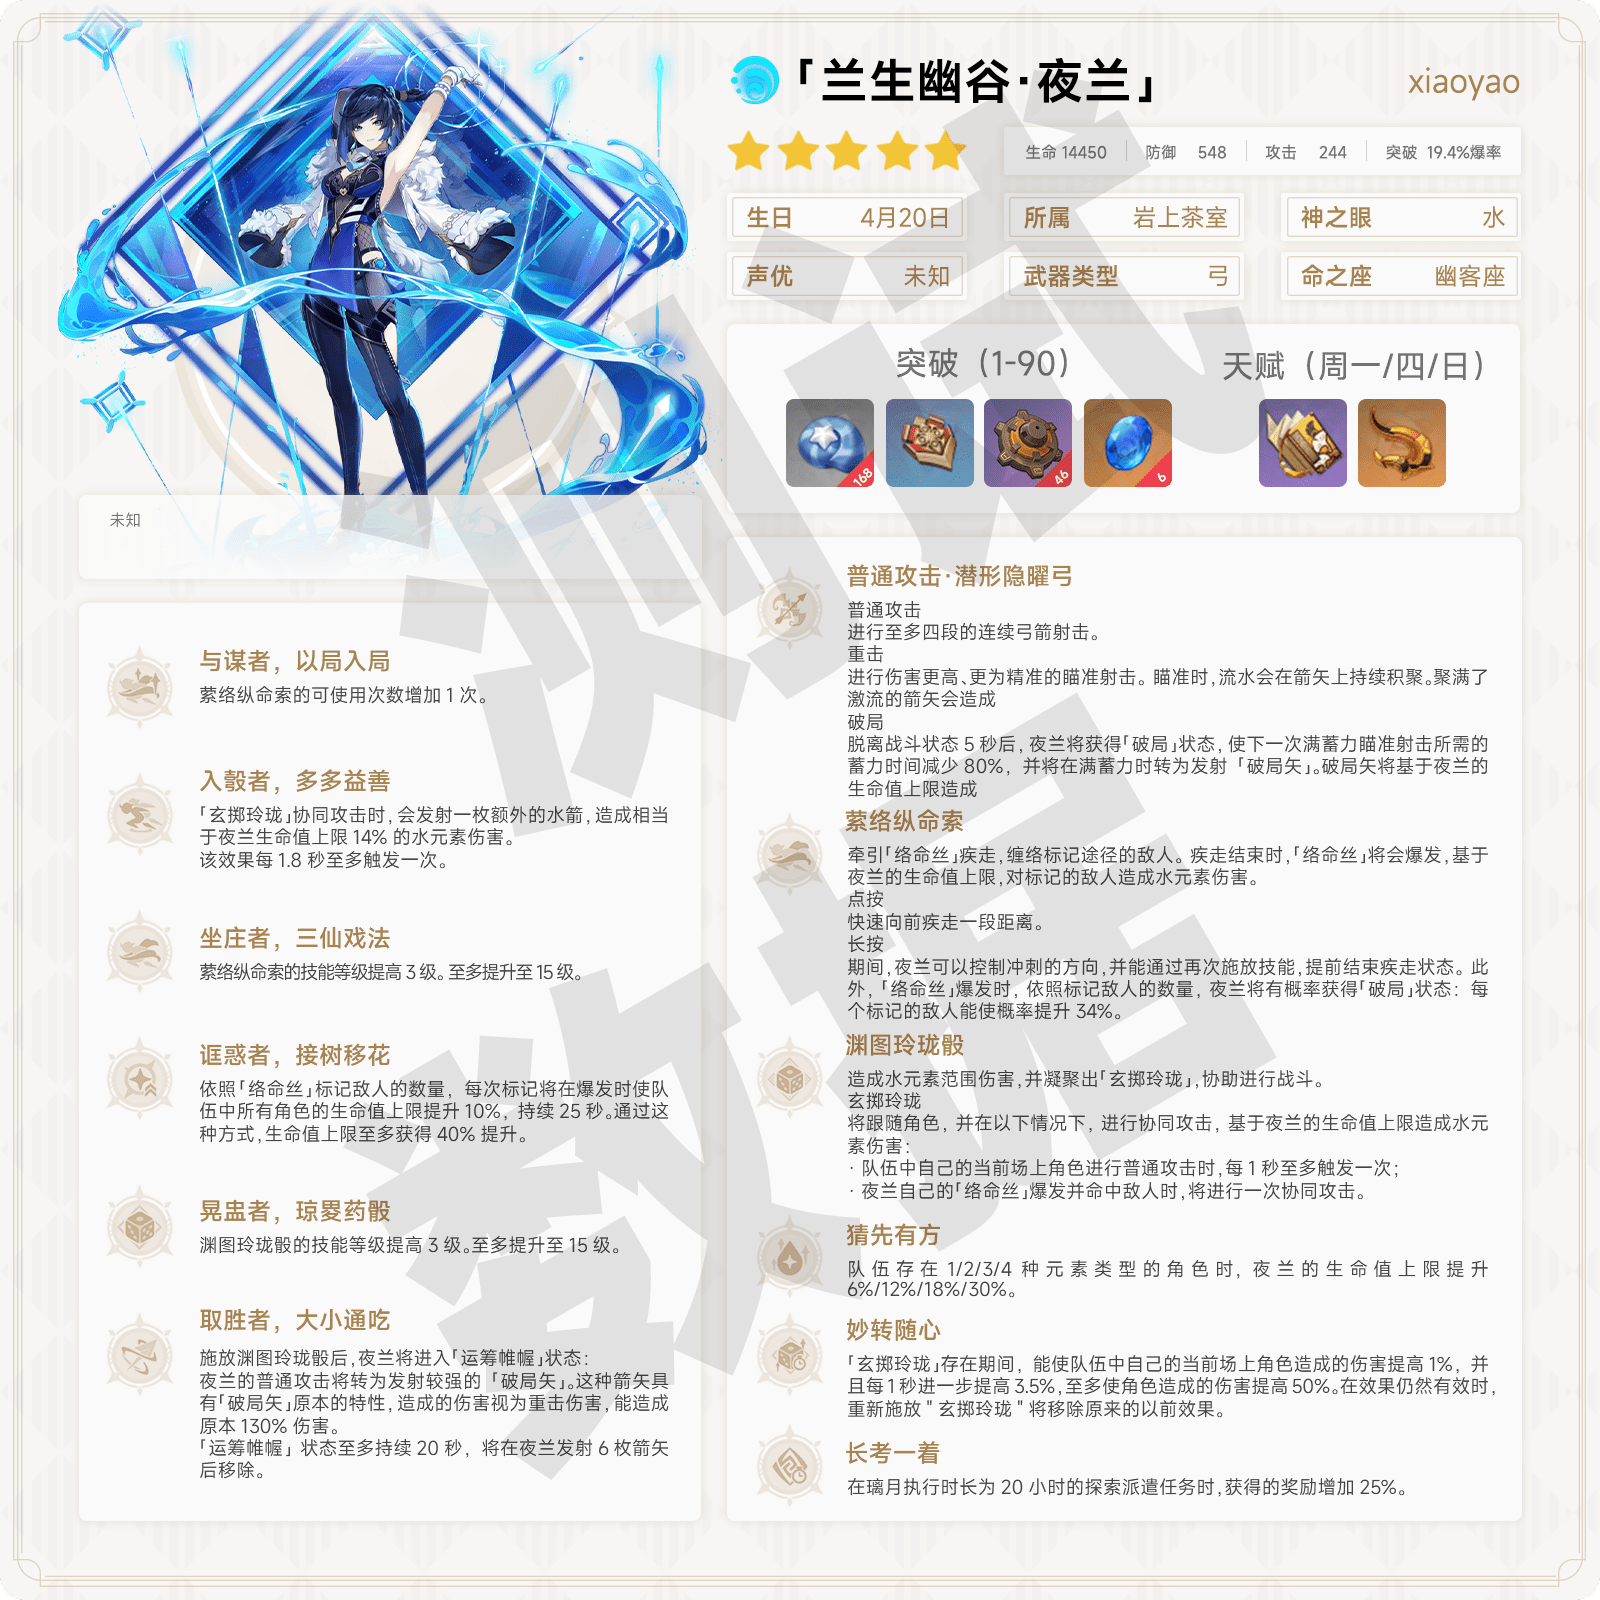
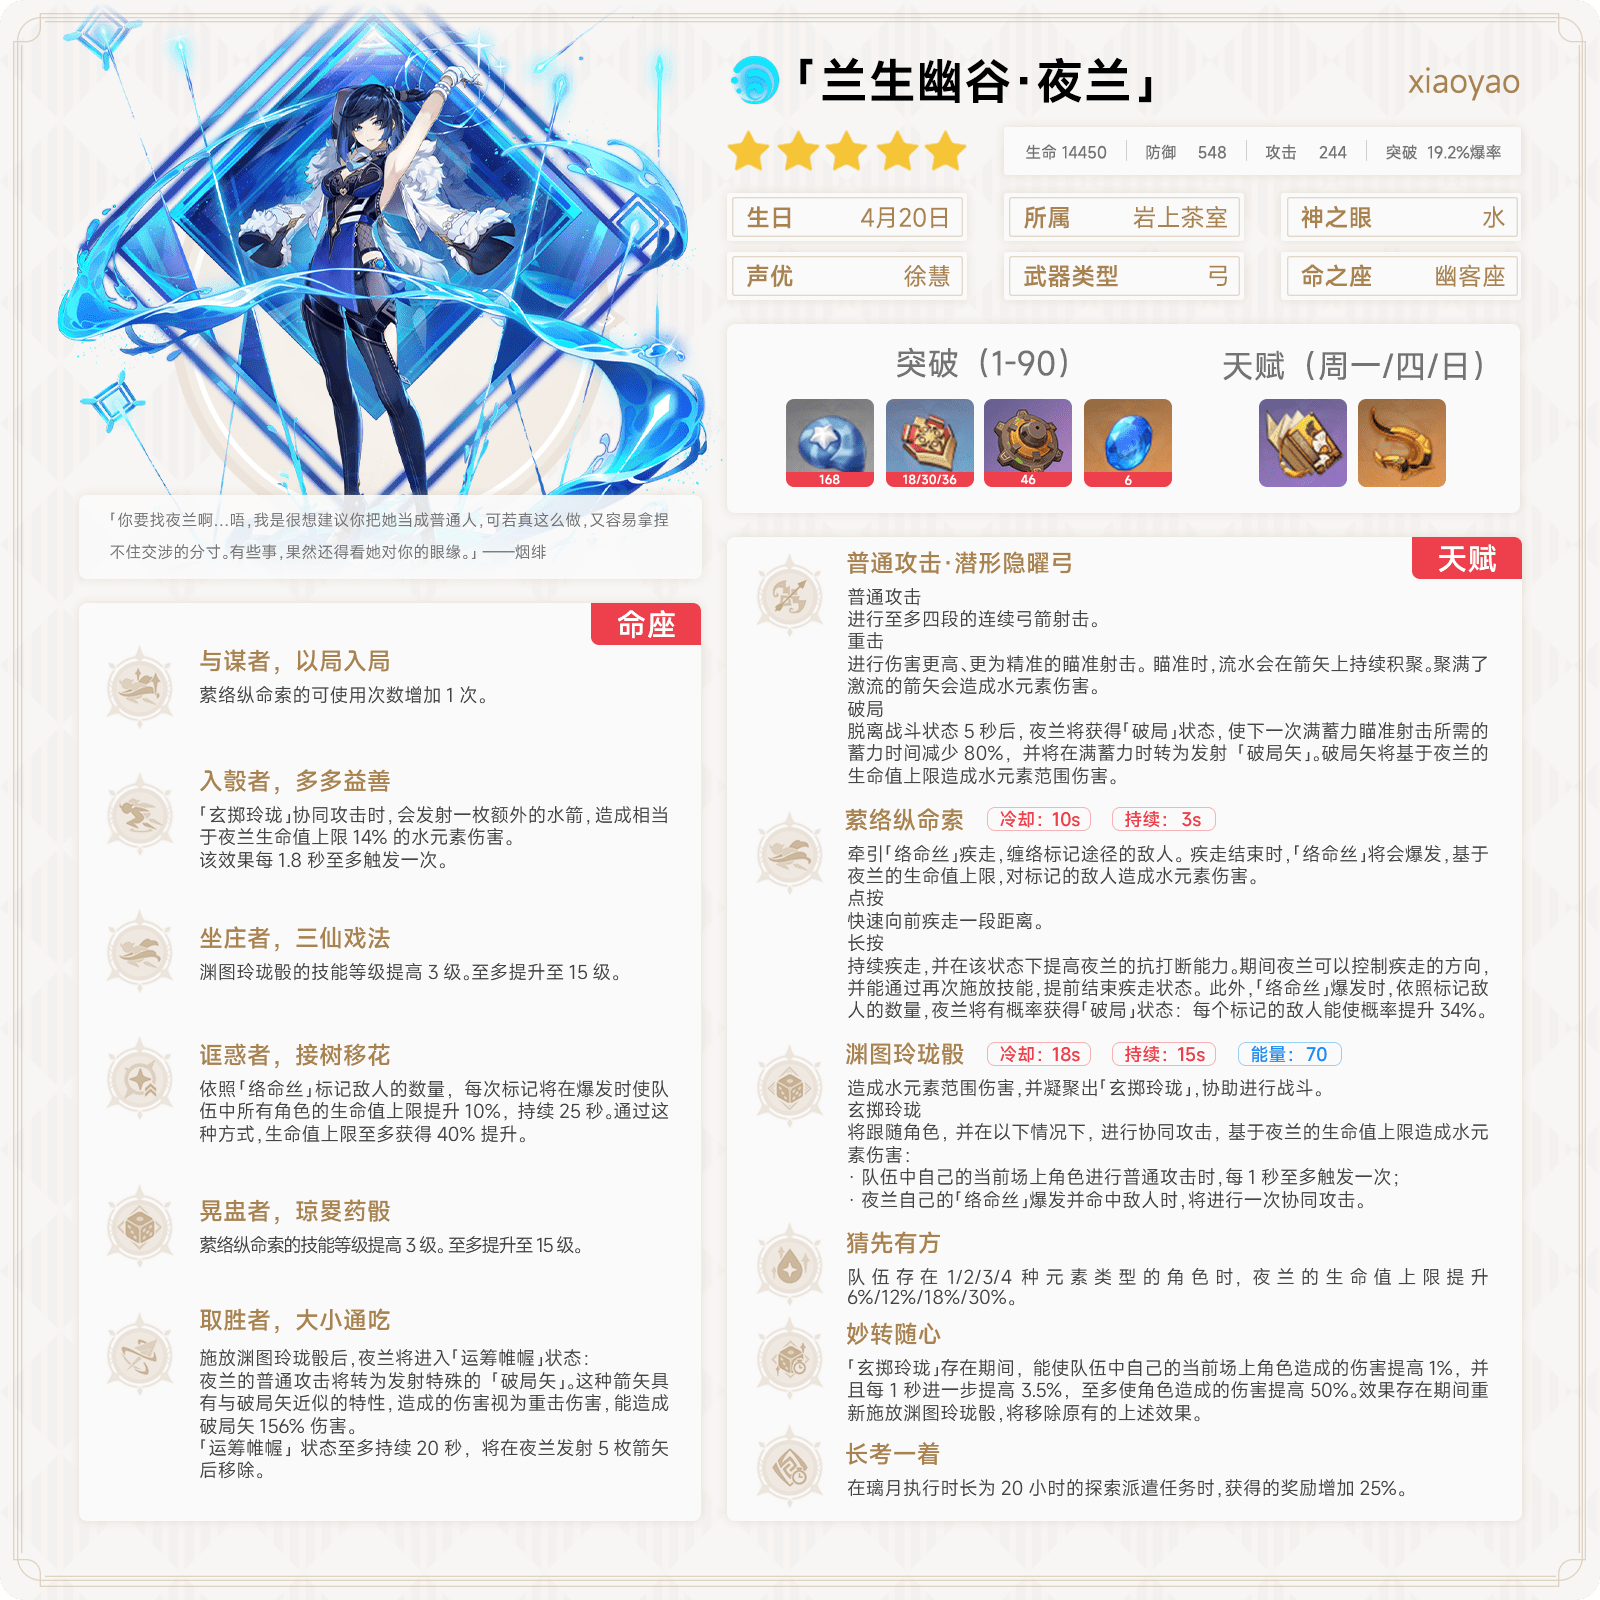
更新夜兰素材

diff --git a/resources/genshin/character/character.css b/resources/genshin/character/character.css
@@ -885,4 +885,16 @@ body {
   background-size: 100%;
   background-position: 110px 0px;
 }
-
+.夜兰_bg1 {
+  background: url(../logo/bg/夜兰1.png) no-repeat;
+  background-size: auto 300px;
+  background-position: 40% 0%;
+}
+.夜兰_drag {
+  background-position: -60px -55px;
+}
+.夜兰_bg2 {
+  background-image: url(../logo/bg/夜兰2.png);
+  background-size: 100%;
+  background-position: 100px 0px;
+}
